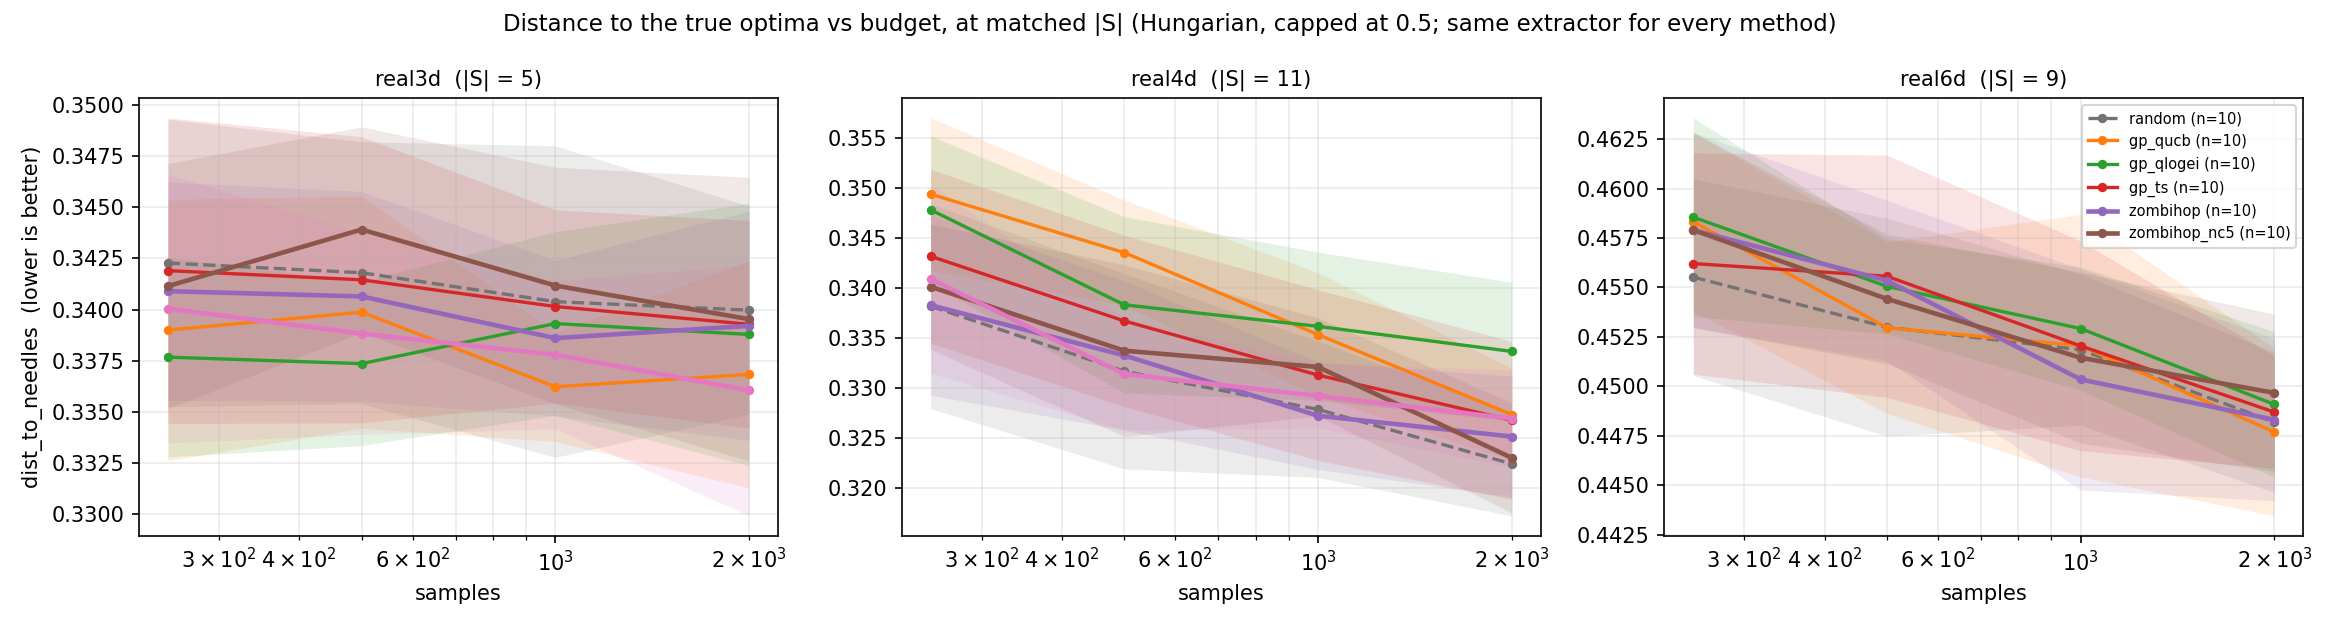
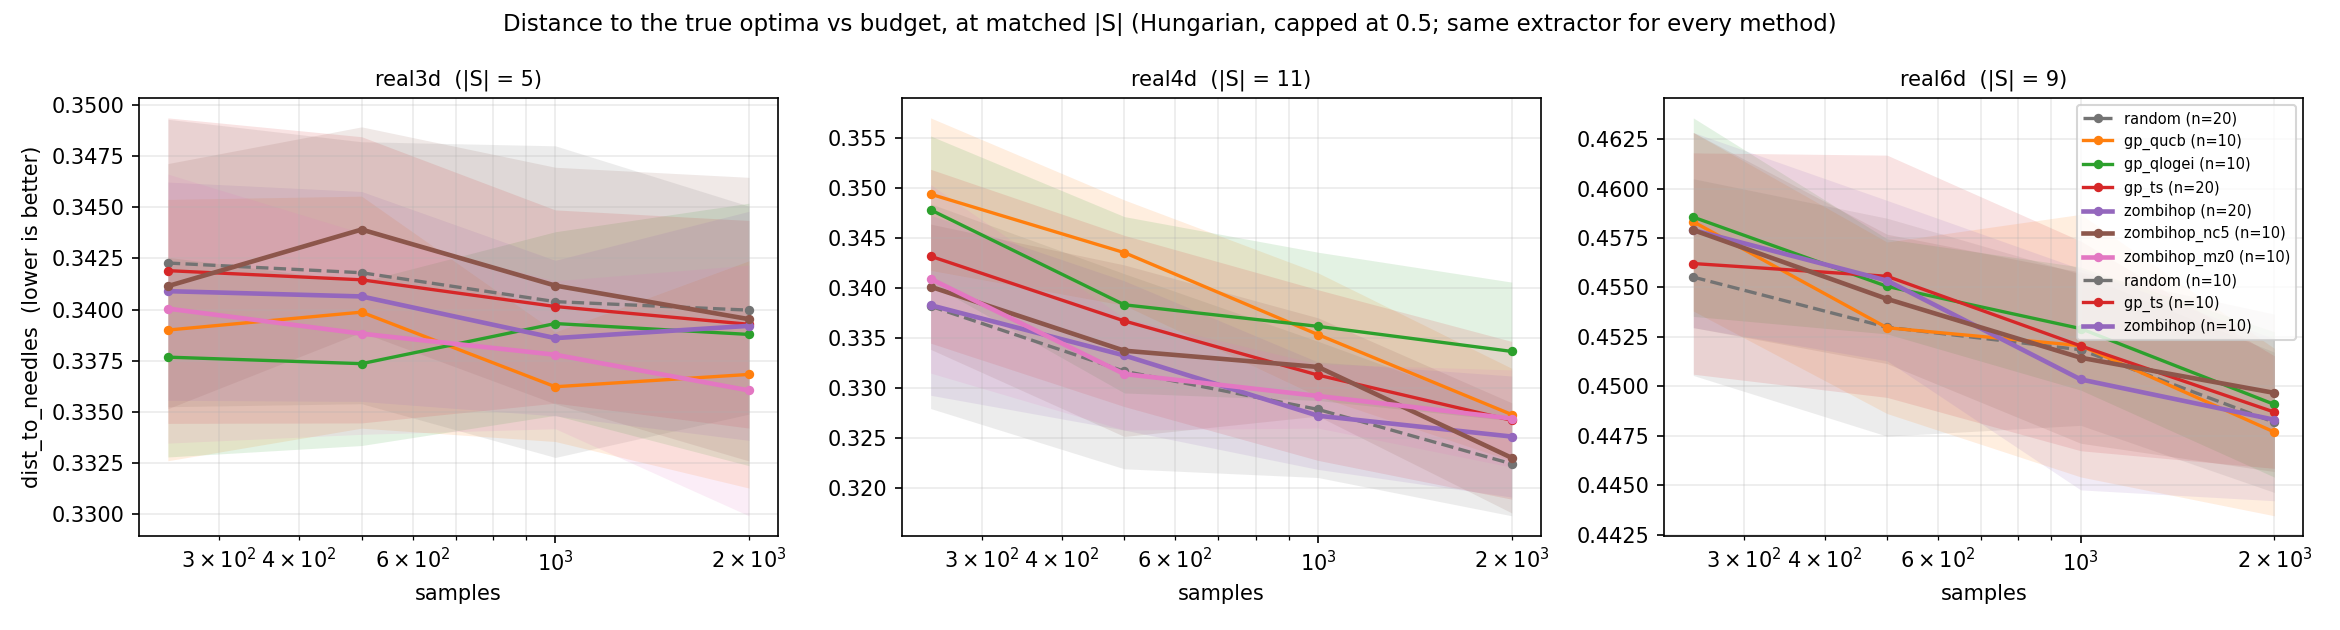
Fix: an arm missing from the last panel had no legend entry
Matplotlib builds a legend from one axes' handles, and all three figures drew it on
the LAST panel. zombihop_mz0 runs at 3-D and 4-D only, so on a figure ending in
real6d its curve was plotted and never labelled -- a reader looking at fig3 had a
pink line with no way to identify it, on the figure the report calls "the one that
matters".

_legend_all collects handles across every panel and de-duplicates, preserving plot
order. Applies to fig1, fig3 and fig6.

Changed region(s): [[0.8735, 0.181, 0.9983, 0.5429]]

diff --git a/benchmarks/zhbench/report.py b/benchmarks/zhbench/report.py
@@ -74,6 +74,25 @@ def _mean_std(rows, opt, key):
     return (float(np.mean(v)), float(np.std(v)), len(v)) if v else (np.nan, np.nan, 0)
 
 
+def _legend_all(axes, ax_target, **kw):
+    """One legend covering every arm drawn in ANY panel.
+
+    Matplotlib builds a legend from the handles of a single axes, and the legend
+    has always been drawn on the last panel. That silently drops any method absent
+    from that panel: `zombihop_mz0` runs at 3-D and 4-D only, so on a three-panel
+    figure ending in real6d its curve appeared unlabelled -- a reader has no way to
+    tell which arm it is. Collect across panels and de-duplicate, preserving the
+    order the arms were plotted in.
+    """
+    pairs = {}
+    for ax in axes:
+        h, l = ax.get_legend_handles_labels()
+        for hi, li in zip(h, l):
+            pairs.setdefault(li, hi)
+    if pairs:
+        ax_target.legend(pairs.values(), pairs.keys(), **kw)
+
+
 def fig_reached(rows, curves, suite_dir, objectives) -> str:
     plt = _mpl()
     opts = _opts(rows)
@@ -99,7 +118,7 @@ def fig_reached(rows, curves, suite_dir, objectives) -> str:
         ax.set_xlabel("samples")
         ax.grid(alpha=0.25)
     axes[0][0].set_ylabel("fraction of true optima reached")
-    axes[0][-1].legend(fontsize=7, loc="upper left")
+    _legend_all(axes[0], axes[0][-1], fontsize=7, loc="upper left")
     fig.suptitle("Sample efficiency: optima reached (near AND high) vs budget",
                  fontsize=11)
     fig.tight_layout()
@@ -179,7 +198,7 @@ def fig_matched_declarations(rows, curves, suite_dir, objectives) -> str:
         ax.set_xlabel("|S| = number of optima declared")
         ax.grid(alpha=0.25)
     axes[0][0].set_ylabel("peak ratio (recall)")
-    axes[0][-1].legend(fontsize=7, loc="lower right")
+    _legend_all(axes[0], axes[0][-1], fontsize=7, loc="lower right")
     fig.suptitle("Matched declarations: recall vs how many optima were declared "
                  "(star = ZoMBI-Hop's own count)", fontsize=11)
     fig.tight_layout()
@@ -294,7 +313,7 @@ def fig_dist_to_needles(rows, suite_dir, objectives) -> str | None:
         plt.close(fig)
         return None
     axes[0][0].set_ylabel("dist_to_needles  (lower is better)")
-    axes[0][-1].legend(fontsize=7, loc="best")
+    _legend_all(axes[0], axes[0][-1], fontsize=7, loc="best")
     fig.suptitle("Distance to the true optima vs budget, at matched |S| "
                  "(Hungarian, capped at 0.5; same extractor for every method)",
                  fontsize=11)
